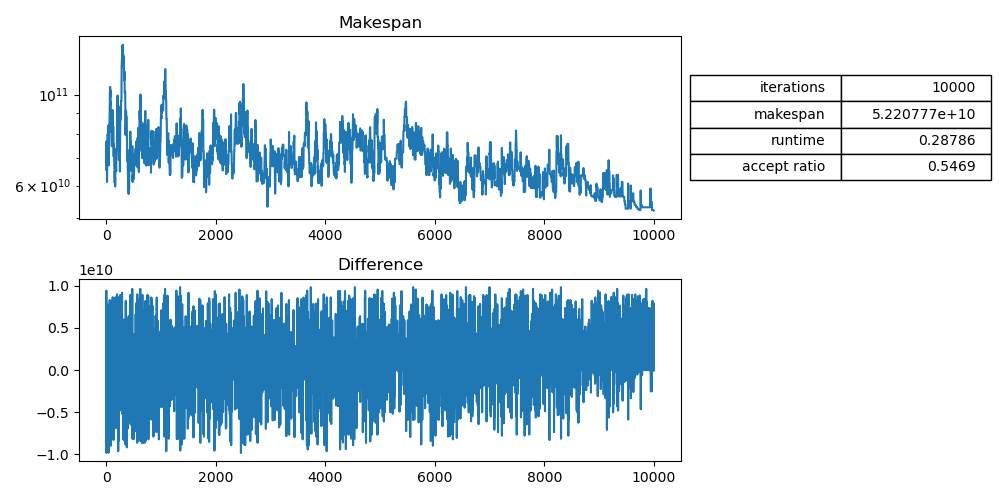
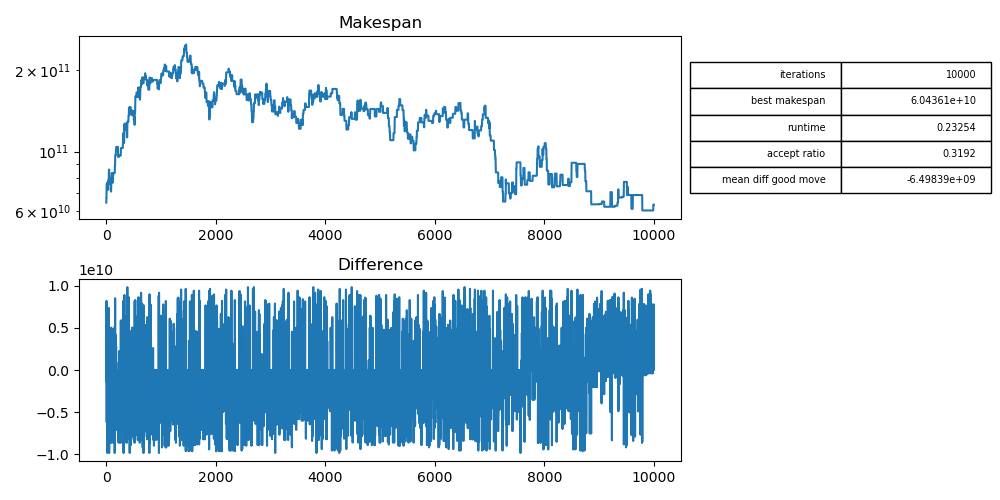
added more information to the experiments

diff --git a/simann/simann.py b/simann/simann.py
@@ -136,6 +136,10 @@ class SimulatedAnnealing:
         temperature_lst = []
         # difference between t and t-1
         difference_lst = [ 0 ]
+        # accepted differences for good, bad and neutral moves
+        accepted_good_difference_lst = [ 0 ]
+        accepted_bad_difference_lst = [ 0 ]
+        accepted_zero_difference = 0
         # number of times that we accepted the random move
         accept_nr = 0
 
@@ -169,6 +173,13 @@ class SimulatedAnnealing:
                 state[job] = new_machine
                 # and update the makespan
                 current_makespan = new_makespan
+                #track the differences that are accepted
+                if difference < 0:
+                    accepted_good_difference_lst.append(difference)
+                elif difference == 0:
+                    accepted_zero_difference += 1
+                else:
+                    accepted_bad_difference_lst.append(difference)
             else:
                 pass
                 #print("Reject move!")
@@ -197,6 +208,9 @@ class SimulatedAnnealing:
             makespan_lst = makespan_lst,
             temperature_lst = temperature_lst,
             difference_lst = difference_lst,
+            accepted_good_difference_lst = accepted_good_difference_lst,
+            accepted_bad_difference_lst = accepted_bad_difference_lst,
+            accepted_zero_difference = accepted_zero_difference,
         )
 
         return self.result

diff --git a/simann/experiment.py b/simann/experiment.py
@@ -2,6 +2,7 @@ import os, pickle
 import matplotlib.pyplot as plt
 from matplotlib.gridspec import GridSpec
 from dataclasses import dataclass
+from statistics import mean
 
 
 @dataclass
@@ -24,6 +25,9 @@ class Experiment:
     makespan_lst: list
     temperature_lst: list
     difference_lst: list
+    accepted_good_difference_lst: list
+    accepted_bad_difference_lst: list
+    accepted_zero_difference: int
 
     @classmethod
     def loadFromFile(cls, file_path):
@@ -91,9 +95,10 @@ class Experiment:
         ax2 = fig.add_subplot(gs[0, 1])
         table_text = [
             ['iterations', self.n_iterations],
-            ['makespan', "{:e}".format(self.best_makespan)],
+            ['best makespan', "{:.5e}".format(self.best_makespan)],
             ['runtime', str(round(self.runtime, 5))],
-            ['accept ratio', self.accept_ratio]
+            ['accept ratio', self.accept_ratio],
+            ['mean diff good move', "{:.5e}".format(round(mean(self.accepted_good_difference_lst)))]
         ]
         ax2.axis('tight')
         ax2.axis('off')

diff --git a/simann/p_functions.py b/simann/p_functions.py
@@ -45,7 +45,7 @@ def exponentialDecayNonInc(difference, temperature, good_accept, bad_accept):
 def exponentialDecayGreedy(difference, temperature, good_accept, bad_accept):
     """Use an exponential function of the difference."""
     if difference < 0: # good-move
-        # If the improvement is too good. We want to make the algorithm less 'greedy'.
+        # If the improvement is too good. We want to make the algorithm as 'greedy' as possible.
         return random.random() < math.exp(1 / (good_accept * difference))
     else: # bad-move
         # If the temperature approaches 0, we are getting more careful, so the chance

diff --git a/simann/acceptance_comparison.py b/simann/acceptance_comparison.py
@@ -22,8 +22,8 @@ output_prefix = "./experiments/accept_exp"
 #accept_exp4 = instance.start(100000, exponentialDecayNonInc, 8e10, 4e10)
 #accept_exp4.plotResults("{}4.png".format(output_prefix))
 
-accept_exp5 = instance.start(10000, exponentialDecayGreedy, 1, 4e12)
+accept_exp5 = instance.start(10000, exponentialDecayGreedy, 1e-10, 4e12)
 accept_exp5.plotResults("{}5.png".format(output_prefix))
 
-accept_exp6 = instance.start(10000, exponentialDecayGreedy, 1, 4e12)
+accept_exp6 = instance.start(10000, exponentialDecayGreedy, 3e-10, 4e12)
 accept_exp6.plotResults("{}6.png".format(output_prefix))
